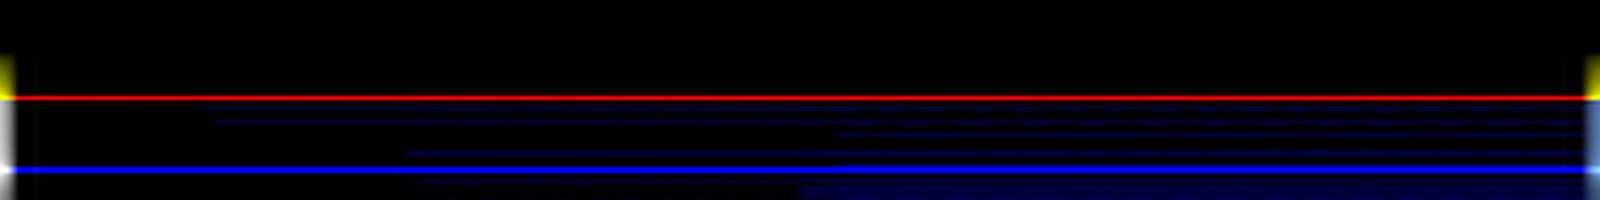
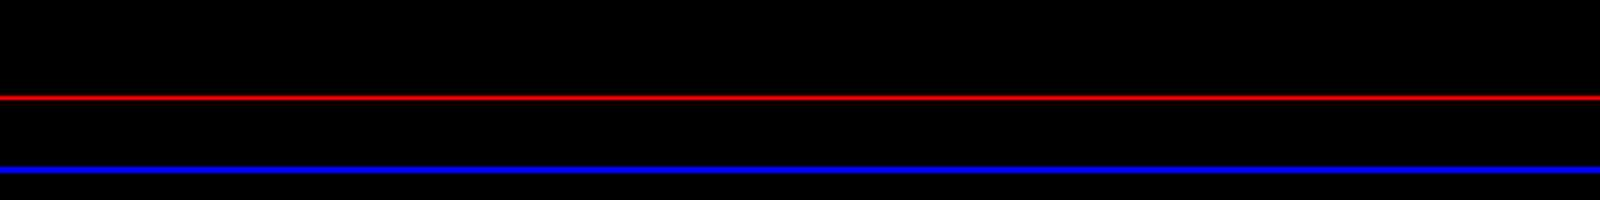
Drop STFT centring: the padding was lighting up the frame edges
Analysis was centred, so the first and last window were half invented data.
Whatever that padding is, it meets the signal at a kink, and the window reads
a kink as broadband energy -- both edge frames came out white. It is obvious
on a steady tone, where the edges should look exactly like the middle.

Measured on a pure 800 Hz tone, as the fraction of frame energy landing
outside the tone's own band:

    reflect (was)   first 8.3e-2   last 2.0e-2
    zeros           first 4.1e-2   last 5.4e-3
    edge            first 4.1e-2   last 8.5e-3
    none (now)      first 8.2e-7   last 3.9e-6   mid-signal 1.6e-6

So reflect padding put ~51000x the mid-signal splatter into the first frame,
and no choice of padding fixes it -- the fix is not to pad. Uncentred, every
frame holds real signal. The cost is the final partial window, under 64 ms,
which no thumbnail resolves. Inputs shorter than one window are zero-padded
to fill it, since otherwise there would be no frame at all.

Edge columns now match the interior: 0.848/0.848/0.840 on noise and 0.020
flat on the two-tone case, against clearly visible white bars before.

This gives up being a twin of torch.stft(center=True), which nothing here
needs any more.

Examples regenerated: the synthetic ones now run 3 minutes, long enough that
1600px downsamples rather than upscales. README keeps them in one list.

Changed region(s): [[0.125, 0.27, 1.0, 1.0], [0.0, 0.27, 0.0312, 1.0]]

diff --git a/dadaspec.py b/dadaspec.py
@@ -75,9 +75,23 @@ def _mel_filterbank(n_mels, n_fft, sr, fmax):
     return filt
 
 def _stft_power_np(y_ch, n_fft, hop_length):
-    """numpy twin of torch.stft(center=True, pad_mode='reflect', periodic hann)
-    followed by |.|^2, shaped (n_fft // 2 + 1, n_frames)."""
-    y = np.pad(np.asarray(y_ch, dtype=np.float32), n_fft // 2, mode="reflect")
+    """Power STFT with a periodic Hann window, shaped (n_fft // 2 + 1, n_frames).
+
+    Uncentred on purpose: every frame holds real signal and nothing invented.
+    A centred STFT has to pad the ends, and whatever it pads with is a kink
+    the window reads as broadband energy, so the first and last frame light up
+    white. On a pure 800 Hz tone, the fraction of frame energy falling outside
+    the tone's own band is 1.6e-6 mid-signal but 8.3e-2 in the first frame
+    under reflect padding, and 4.1e-2 under zero or edge padding. Dropping the
+    padding puts the edges back at 8.2e-7 and 3.9e-6.
+
+    The cost is the final partial window, under 64 ms, which no thumbnail
+    resolves. Signals shorter than one window are zero-padded to fill it,
+    since otherwise there would be no frame at all.
+    """
+    y = np.asarray(y_ch, dtype=np.float32)
+    if y.shape[-1] < n_fft:
+        y = np.pad(y, (0, n_fft - y.shape[-1]))
     win = (0.5 - 0.5 * np.cos(2 * np.pi * np.arange(n_fft) / n_fft)).astype(np.float32)
     frames = np.lib.stride_tricks.sliding_window_view(y, n_fft)[::hop_length] * win
     spec = np.fft.rfft(frames, axis=-1)

diff --git a/README.md b/README.md
@@ -21,10 +21,6 @@ saturates toward white; the vertical seams are stop-start lurches.
 blockier: sustained bass along the centre line, quiet passages going dark
 between drops.
 
-## Synthetic
-
-Each isolates one property of the encoding.
-
 ![sweep](examples/sweep.jpg)
 
 **40 Hz → 15 kHz sweep.** Bass red at the left, rising through green to blue,
@@ -94,6 +90,11 @@ The examples above are 1600×200: genuinely wider, merely stretched taller.
 30 mel bins, a 2048-point FFT at hop 2048, a Slaney-normalised filterbank
 capped at 16 kHz, over audio resampled to 32 kHz. Pure numpy and Pillow — no
 torch, no librosa, no scipy.
+
+Analysis is uncentred: every frame holds real signal, never padding. A centred
+STFT has to invent the ends, and the kink where that padding meets the signal
+reads as broadband energy -- it lights the first and last frame white. The
+trade is the final partial window, under 64 ms.
 
 Decoding tries `soundfile`, then `ffmpeg` if it is on PATH. Enough for wav,
 flac, ogg and — on any recent libsndfile — mp3.
